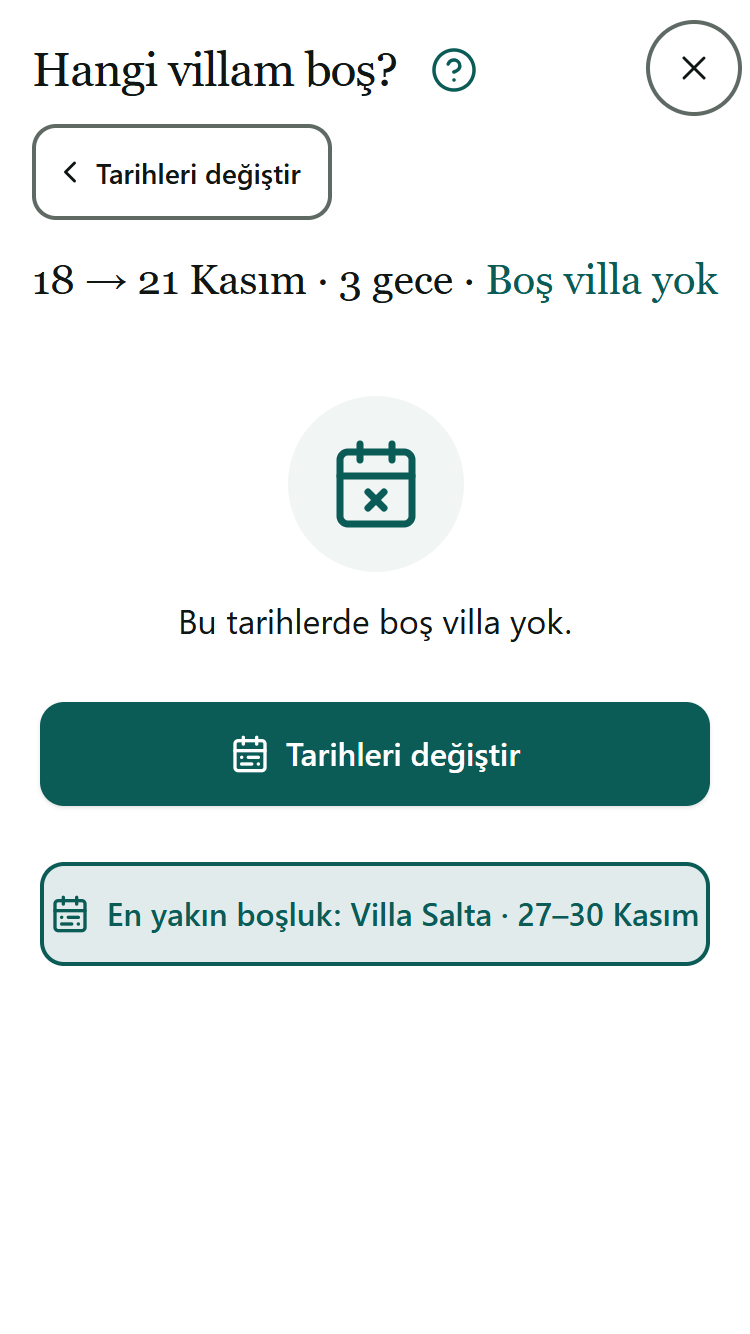
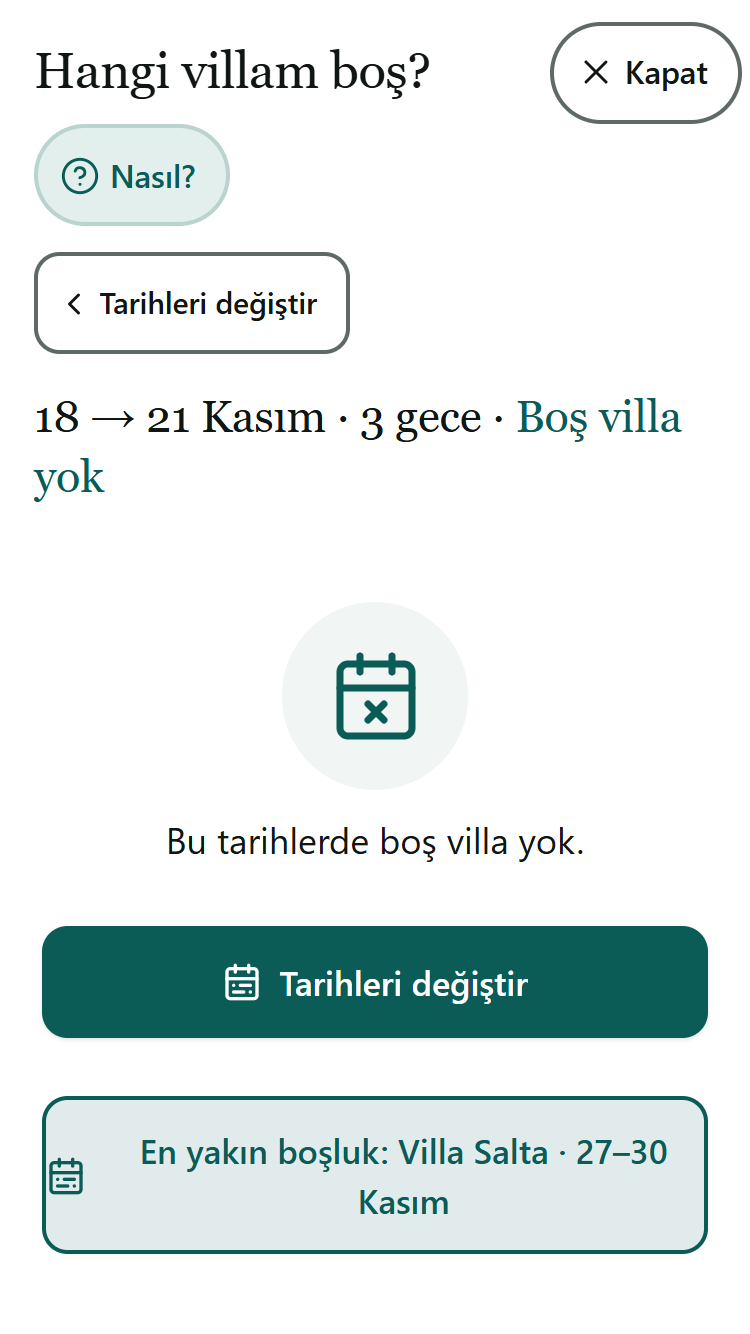
Görev 31.14: test ve testlerin bulduğu düzeltmeler
- iPhone SE / iPhone 15 × Normal / Büyük / Çok büyük × hareketi azalt: taşma ve üst üste binme yok, konsol hatası yok
- Hareketi azalt açıkken 12 durumda ve 7 akışta kayan öğe yok, akışlar çalışıyor
- Mevcut testler: Görev 19, 22–25, 27 (86/86), 28 (60/60 ×2), 29, 30, webhook geçti; Görev 21'de bir adım bilinen sapma
- Düzeltmeler: rehber katmanı eski ölçüsünde (--rh-olcek), baloncuk üstte yer yoksa alta; rehber sürerken "Nasıl?" gizli;
  ücret kartında ₺ tutardan ayrılmıyor; iskelet gerçek boşlukla birebir
- docs/qa/gorev31/README.md, PROJE_DURUMU.md ve STIL.md güncellendi

diff --git a/www/index.html b/www/index.html
@@ -100,6 +100,7 @@
     --satir-govde:1.45;
     --satir-baslik:1.2;
     --harf-serif:-.01em;         /* serif başlıklarda harf aralığı */
+    --rh-olcek:.941176;          /* 31.10: rehber katmanı eski (16 px tabanlı) ölçülerinde kalır: baloncuk en fazla 2 satır */
     --serif: ui-serif, Georgia, "Times New Roman", serif;
     --sans: -apple-system, BlinkMacSystemFont, "Segoe UI", Roboto, Helvetica, Arial, sans-serif;
   }
@@ -1120,6 +1121,8 @@
   /* 22.2: rehberi olan panellerde başlığın yanında "?" (rehberi tek seferlik açar; rehber açıkken görünmez) */
   /* 31.10: panelde "? Nasıl?" hapı başlığın altında kendi satırında (başlık daralmaz, üst üste binme olmaz) */
   .head.rhSoruVar > .rhSoru{margin:.625rem 0 0}
+  /* rehber sürerken "Nasıl?" gereksiz (rehberi açan düğme): yer de kaplamaz, hedefler yukarıda kalır */
+  html.rhAcik .head.rhSoruVar > .rhSoru{display:none}
   /* 26.6: ekran başlığının yanındaki "?" (Misafirler, Fotoğraflar): başlığın hemen yanında, rozet sağda kalır */
   .baslikSatir.rhSoruVar > h1{flex:0 1 auto}
   .baslikSatir.rhSoruVar > .rhSoru{margin-right:auto}
@@ -2576,17 +2579,18 @@
       var ana=document.getElementById("ana"), l=document.querySelectorAll("#villalar > .kart");
       if(!ana || ana.classList.contains("hide") || !l.length) return;
       var a=ana.getBoundingClientRect().top;
-      try{ localStorage.setItem(ISK_ANA,JSON.stringify({ust:Math.round(l[0].getBoundingClientRect().top-a),
-        boy:Array.prototype.slice.call(l,0,4).map(function(k){ return Math.round(k.offsetHeight); })})); }catch(e){}
+      try{ localStorage.setItem(ISK_ANA,JSON.stringify({ust:+(l[0].getBoundingClientRect().top-a).toFixed(2),
+        boy:Array.prototype.slice.call(l,0,4).map(function(k){ return +k.getBoundingClientRect().height.toFixed(2); })})); }catch(e){}
     });
   }
   function anaYerlesimUygula(){
     var y=null; try{ y=JSON.parse(localStorage.getItem(ISK_ANA)||"null"); }catch(e){}
     var ana=document.getElementById("ana"), l=document.querySelectorAll("#villalar .iskKart");
     if(!y || !l.length) return;
-    l.forEach(function(k,i){ if(y.boy && y.boy[i]) k.style.minHeight=y.boy[i]+"px"; });
-    var fark=y.ust-Math.round(l[0].getBoundingClientRect().top-ana.getBoundingClientRect().top);
-    if(fark>24){ var b=document.createElement("div"); b.className="isk blok iskUst"; b.style.cssText="height:"+(fark-12)+"px;margin:0;border-radius:var(--kose)";
+    l.forEach(function(k,i){ if(y.boy && y.boy[i]) k.style.height=y.boy[i]+"px"; });
+    var fark=y.ust-(l[0].getBoundingClientRect().top-ana.getBoundingClientRect().top);
+    var ara=parseFloat(getComputedStyle(l[0].parentNode).rowGap)||0;
+    if(fark>24){ var b=document.createElement("div"); b.className="isk blok iskUst"; b.style.cssText="height:"+(fark-ara)+"px;margin:0;border-radius:var(--kose)";
       l[0].parentNode.insertBefore(b,l[0]); }
   }
   function villaIskelet(n){
@@ -6015,7 +6019,7 @@
       if(!N){ el.innerHTML='<div class="sm muted">'+esc(cev("Tarihleri seçince normal ücret burada görünür."))+"</div>"; return; }
       var sat=function(ad,deger,arti){ return '<div class="ucSatir"><span class="ucAd">'+ad+'</span><span class="ucDeger">'+(arti?"+":"")+para(deger)+"</span></div>"; };
       var gAd=N.tek ? cev(N.gc+" gece")+" × "+para(N.tek) : cev(N.gc+" gece");
-      var h='<div class="eyebrow lab" style="margin:0 0 .25rem">'+esc(cev("Normal ücret"))+"</div>"+sat(esc(gAd),N.geceler,false);
+      var h='<div class="eyebrow lab" style="margin:0 0 .25rem">'+esc(cev("Normal ücret"))+"</div>"+sat(esc(gAd).replace(/ ₺/g,"&nbsp;₺"),N.geceler,false);
       if(N.eksik) h+='<div class="sm warn" style="margin:-.25rem 0 .5rem">'+esc(cev(N.eksik+" gecenin fiyatı girilmemiş"))+"</div>";
       if(N.ek) h+=sat(esc(cev("Kısa konaklama ücreti")),N.ek,true);
       h+='<div class="ucCizgi"></div><div class="ucSatir ucToplam"><span class="ucAd">'+esc(cev("Konaklama ücreti"))+'</span><span class="ucDeger">'+para(N.konaklama)+"</span></div>";
@@ -6665,7 +6669,7 @@
     var kartCiz=function(){
       var el=document.getElementById("f-ucret"); if(!el) return;
       var gAd = (tekFiyat && !h.eksik) ? cev(g+" gece")+" × "+para(tekFiyat) : cev(g+" gece");
-      var html=satir("geceler",esc(gAd),U.geceler,false);
+      var html=satir("geceler",esc(gAd).replace(/ ₺/g,"&nbsp;₺"),U.geceler,false);   // 31.10: "₺" tek başına alt satıra düşmesin
       if(h.eksik && !U.geceler) html+='<div class="sm warn" style="margin:-.25rem 0 .5rem">'+esc(cev(h.eksik+" gecenin fiyatı girilmemiş, tutarı yazın"))+"</div>";
       if(U.ek || acik.ek) html+=satir("ek",esc(cev("Kısa konaklama ücreti")),U.ek,true);
       html+='<div class="ucCizgi"></div><div class="ucSatir ucToplam"><span class="ucAd">'+esc(cev("Konaklama ücreti"))+'</span><span class="ucDeger">'+para(konaklama())+"</span></div>";

diff --git a/www/rehber.js b/www/rehber.js
@@ -256,7 +256,10 @@
       ".rh.kapaniyor,.rhSon.kapaniyor{transition:none}}";
   function cssKur() {
     if (document.getElementById("rhCss")) return;
-    var s = document.createElement("style"); s.id = "rhCss"; s.textContent = CSS;
+    // 31.10: uygulamanın gövde yazısı 17 px oldu; rehber katmanı eski ölçülerinde kalsın diye bütün rem değerleri
+    // --rh-olcek ile çarpılır (index.html: 16/17). Yazı boyutu ayarıyla (Büyük, Çok büyük) yine birlikte büyür.
+    var s = document.createElement("style"); s.id = "rhCss";
+    s.textContent = CSS.replace(/(-?\d*\.?\d+)rem/g, function (m, n) { return "calc(" + n + "rem * var(--rh-olcek, 1))"; });
     (document.head || document.documentElement).appendChild(s);
   }
   // *kelime* → vurgulu (kalın değil)
@@ -746,9 +749,12 @@
     yaz(D.delik, "transform", "translate(" + Math.round(d.l - ox) + "px," + Math.round(d.t - oy) + "px)");
     yaz(D.delik, "width", Math.max(0, Math.round(d.w)) + "px"); yaz(D.delik, "height", Math.max(0, Math.round(d.h)) + "px");
     yaz(D.balon, "left", Math.round(b.l - ox) + "px"); yaz(D.balon, "width", Math.round(b.w) + "px");
-    var bh = D.balon.offsetHeight;
-    // baloncuğun alt kenarı hedefin üst kenarının 8 px üstünde
-    yaz(D.balon, "top", Math.round(d.t + pay - 8 - bh - oy) + "px");
+    var bh = D.balon.offsetHeight, g = alan();
+    // baloncuğun alt kenarı hedefin üst kenarının 8 px üstünde. 31.10: üstte yer yoksa (yazı 17 px olunca hedefler büyüdü)
+    // hedefin 8 px altına; altta da yer yoksa ekranın üst kenarına yapışır (ekrandan taşmaz)
+    var bt = d.t + pay - 8 - bh;
+    if (bt < g.ust + 4) bt = (d.t + d.h - pay + 8 + bh <= g.alt - 4) ? d.t + d.h - pay + 8 : g.ust + 4;
+    yaz(D.balon, "top", Math.round(bt - oy) + "px");
     D.delikEkran = d; D.balonEkran = b;
   }
   function solukCiz(d) {

diff --git a/www/sw.js b/www/sw.js
@@ -3,7 +3,7 @@
 
 // Sürüm: her yayında artırılır. Dosya değişince telefonlar yeni servisi kurar;
 // açılışta eski sürümlerden kalan önbellekler silinir, böylece eski ekran kalmaz.
-var SURUM = "vt-2026-11-18-gorev31m";
+var SURUM = "vt-2026-11-18-gorev31n";
 
 self.addEventListener("install", function (e) {
   self.skipWaiting();

diff --git a/docs/qa/gorev31/README.md b/docs/qa/gorev31/README.md
@@ -3,6 +3,104 @@
 _Claude Code, 18 Kasım 2026._
 
 Ortam: Playwright, sahte Supabase, sabit saat 16 Kasım 2026, iPhone boyutları. Veritabanına dokunulmadı.
+Değerlerin hepsi `www/index.html` `:root` değişkenlerinde ve `docs/STIL.md`'de.
+
+## Alt adımlar ve ölçülenler
+
+| Adım | Ölçülen (sahte ortamda) | Sonuç |
+|---|---|---|
+| 31.1 hareket değişkenleri | Panel açılışı `perdeAc` 340 ms (`--egri-cekmece`), kapanışı 220 ms; kararma 240 / 200 ms; bildirim geçişle 300 / 200 ms, yenisi gelince eskisi yarıda kesilir | ✓ |
+| | Eski hata bulundu: panel kapanırken arka plan kararması hiç açılmıyordu (CSS önceliği) | düzeltildi |
+| 31.2 kademeli giriş | Rezervasyon detayı: öğeler 60 / 100 / 140 / 180 / 220 / 260 ms gecikmeyle, 240 ms, 8 pt; 6. öğeden sonrası 6.'yla birlikte | ✓ |
+| | Giriş sürerken düğme basılabilir (`pointer-events: auto`, dokunuş düğmeye gidiyor) | ✓ |
+| | Hareketi azalt: kayma yok, 150 ms saydamlık | ✓ |
+| | Seçim paneli: açılışta ilk öğe 60 ms; giriş → aralık geçişinde 0 / 40 / 80 / 120 / 160 ms | ✓ |
+| 31.3 basma hissi | Hap: basınca 40 ms'de .976, 160 ms'de .97; bırakınca 60 ms'de .988, 260 ms'de 1 | ✓ |
+| | Takvim günü: hiç küçülmüyor | ✓ |
+| | Menü (bakıcı ekle → villa seç): seçilen satır ana renkte, 200 ms sonra menü kapalı | ✓ |
+| 31.4 titreşim dili | Sekme değişimi, 2. gün, anahtar açma → `secim`; eksik isim → `uyari`; kayıt → `basari`; anahtar kapatırken titreşim yok (kapandı) | ✓ |
+| 31.5 sayılar | Gövdede `tabular-nums`; takvim hücresi "4.100 ₺"; Gelir&gider Yıl → Ay: −32.500 → −13.552 → −4.990 → … → −1.500 ₺ (450 ms) | ✓ |
+| | Hareketi azalt: doğrudan −1.500 ₺ | ✓ |
+| 31.6 başarı anları | Bildirimde tik `tikCiz` 350 ms (100 ms gecikmeyle), `basari` titreşimi ~460–480 ms'de | ✓ |
+| | İlk rezervasyon kartı bir kez; ikinci rezervasyonda yok; çok rezervasyonlu (eski) hesapta yok | ✓ |
+| 31.7 yükleniyor | Hızlı veri (190 ms): iskelet hiç görünmedi. Yavaş veri (1,5 sn): iskelet 350 ms'de göründü | ✓ |
+| | İskelet kartlarının yeri ve boyu dolu hâliyle aynı (17 px tabanla: 706 / 836 px, 118 / 94 px) | ✓ |
+| | Kaydetme hatası: "Kaydediliyor…" + ikinci basış engelli → sade kırmızı açıklama + "Tekrar dene" | ✓ |
+| 31.8 boş hâller | Villa yok, Ajanda, müsaitlik sonuç yok, villanın rezervasyonu yok, Gelir&gider: ikon + tek cümle + en fazla tek ana düğme | ✓ |
+| | SE ve 390'da taşma yok | ✓ |
+| 31.9 hata hâlleri | Boş isim: kırmızı çerçeve, alan görünürde, ±4 pt × 2 titreme 300 ms, mesaj alanın altında | ✓ |
+| | Hareketi azalt: titreme yok | ✓ |
+| | Teklifler yüklenemedi ("JWT expired PGRST301"): sade cümle + "Tekrar dene"; tekrar → liste geldi | ✓ |
+| 31.10 okunurluk | Gövde 17 px, en küçük 14 px | ✓ |
+| | SE / 360 / 390 / 430 × Normal / Çok büyük × gece / gündüz: 7 ekran, taşma yok | ✓ |
+| | Ekran görüntüsünde bulundu: SE + Çok büyükte "?" misafir adının üstüne biniyordu | "? Nasıl?" başlığın altına alındı |
+| 31.12 kesilebilirlik | 40 px / 60 ms hızlı çekiş → kapanır; 40 px / 800 ms → kapanmaz; 140 px → kapanır | ✓ |
+| | Yukarı 20 px → 10,9 px (lastik), bırakınca yerine döner | ✓ |
+| | Kapanırken `pointer-events: auto`; dokununca panel geri açıldı, sonra normal kapandı | ✓ |
+| 31.13 yavaş çekim | `?yavas=3`: `--hiz-ac` 1020 ms, panel girişi 180 / 300 / 420 ms gecikme, 720 ms (tam 3 kat) | ✓ |
+| | Yavaş çekim kapalıyken her şey değişmeden | ✓ |
+
+Ekran görüntüleri: `iskelet/`, `ilk/`, `bos/`, `hata/`, `kaydet-hata/`, `okunurluk/`, `test/`.
+
+## 31.14 Test
+
+### Görev 31 denetimleri (son kodla)
+
+| Denetim | Sonuç |
+|---|---|
+| iPhone SE ve iPhone 15 × Normal / Büyük / Çok büyük × hareketi azalt kapalı / açık (12 durum, 7 ekran kaydırılarak) | taşma, kesik yazı, üst üste binme yok; konsol / sayfa hatası yok |
+| Hareketi azalt açıkken 12 durumda kayan (transform ile yer değiştiren) animasyon | 0 (aynı ölçüm normal modda 30–40 kayan animasyon buluyor: ölçüm çalışıyor) |
+| Hareketi azalt açıkken 7 video akışı | 7/7 çalıştı; kayan öğe 0; sayfa hatası yok |
+| Görev 31 testleri (`qa31a`–`qa31k`) | hepsi geçti (yukarıdaki tablo) |
+
+### Mevcut testler (son kodla)
+
+| Test | Sonuç |
+|---|---|
+| Görev 30 (Pro ekranı, mağaza, ne zaman, üyelik satırı, yönetim, kalite) | sorun kaydı yok; farklar beklenen: başlıkta "Kapat" yazısı, bildirimde "✓" harfi yerine çizilen tik, 17 px yazı |
+| Görev 30 webhook | 21 durum ✓ |
+| Görev 29 (hata yakalama, yönetim, iki adımlı doğrulama, ölçüm) | sorun kaydı yok; farklar beklenen ("Kapat" yazısı) |
+| Görev 28 | 60/60 · Çok büyük 60/60 · villa takvimi hatasız |
+| Görev 27 | 86/86 |
+| Görev 25 | 16/16 |
+| Görev 24 | klavye 84/84 · ücret kartı 24/24 |
+| Görev 23 | 6/6 |
+| Görev 22 | 21/21 |
+| Görev 21 | klavye 4/4 · baloncuk 12/13 ve 10/11 (aşağıda) |
+| Görev 19 | konsol / sayfa hatası yok, kayıt var |
+
+Testlerin bulduğu ve düzeltilenler:
+- **Rehber baloncuğu 3 satıra çıkıyordu** (kural en fazla 2), iki adımda ekranın 4 px üstünden taşıyordu: gövde 17 px olunca rehber katmanı
+  da büyümüştü. Rehber katmanı eski ölçülerinde tutuldu (`--rh-olcek`); üstte yer yoksa baloncuk hedefin altına, o da yoksa ekranın
+  üst kenarına yerleşir (ekrandan taşmaz).
+- **Rehber sürerken "? Nasıl?" hapı** gereksiz yer kaplıyordu: rehber açıkken gizli.
+- **Ücret kartında "₺" tek başına alt satıra düşüyordu** ("8.000 / ₺"): tutar ile ₺ arası bölünmez boşluk.
+- **İskelet 1–2 px kayıyordu** (kartlar arası boşluk 17 px tabanla 12,75 px): gerçek ölçü kullanılıyor.
+- Eski test beklentileri güncellendi (tasarım değişikliği): Görev 27.3 opsiyon başlığı ("Kapat" yazısı), Görev 26 misafirler
+  boş hâli (çizim yerine ikon).
+
+**Bilinen sapma (Görev 21, iPhone 14 Safari, 664 px yükseklik):** rezervasyon rehberinin "Toplam ücret" adımında baloncuk karta bitişik
+(8 pt yerine 0 pt boşluk). Baloncuk ve kart tamamen ekranda, üst üste binmiyor. Sebep: 17 px yazıyla ücret kartı 332 px boyunda;
+kısa ekranda üstünde 8 pt'lik pay kalmıyor. Diğer bütün adımlar ve boyutlar 8 pt.
+
+**Bilerek bırakılanlar:** ay / dönem okları (‹ ›) ve kişi sayısındaki − / + yazısız (geri oku gibi bağlamıyla anlaşılır; erişilebilirlik
+etiketleri var). Grup içindeki satırlar basınca küçülmez (satırlar birbirine yapışık), yalnız zemini değişir.
+
+**Denenemeyen:** gerçek iPhone'da titreşim (`secim` dahil) ve çekmece hissi; Windows'ta Xcode yok.
+
+## 31.13 Videolar (`video/`)
+
+iPhone 15 boyutu (393 × 852), gerçek dokunma olaylarıyla. Her akış iki kez: normal hızda ve `?yavas=3` ile (`-yavas3`).
+
+| Dosya | Akış |
+|---|---|
+| `01-acilis` | Uygulama açılışı → Villalarım |
+| `02-rezervasyon-kaydet` | Takvimde 2 gün → seçim paneli → ad yazılır → Rezervasyonu kaydet → tik çizilir → "İlk rezervasyonunuz kaydedildi" kartı |
+| `03-odeme-al` | Rezervasyon detayı → Ödemeyi al ve misafiri yerleştir → Kaydet → kalan ödeme sayarak 0'a iner → Evet, yerleştirdim |
+| `04-musaitlik` | Takvim → Hangi villam boş? → tarihler → sonuçlar (kademeli) → aşağı kaydırma |
+| `05-gelir-gider` | Gelir & gider → Ay / Yıl, önceki / sonraki dönem (net tutar sayarak geçer) |
+| `06-bos-hesap` | Villa yok ekranı |
+| `07-ag-kapali-hata` | Hesabım → ağ kapalıyken "Bilgilerimi kaydet" → çevrimdışı şeridi, düğmenin altında hata + "Tekrar dene" → ağ gelince tekrar → kaydedildi |
 
 ## 31.11 Her ekranda tek bir öne çıkan iş
 

diff --git a/docs/STIL.md b/docs/STIL.md
@@ -73,7 +73,8 @@ Kullanıcı yaşlı bir villa sahibi. Her karar "daha sade, daha net" yönünde 
 - **Para biçimi:** her yerde `12.300 ₺` (binlik nokta, boşluk, ₺). Takvim hücresinde dar bölünmeyen boşlukla `4.100 ₺`, yüz binin
   üstünde `120b ₺`. Tek kaynak: `para()` (uygulama), `nf.format(n)+" ₺"` (misafir sayfası).
 - **Dar alanda büyük yazı:** yan yana öğeler sığmazsa alt satıra geçer (`flex-wrap`, `min-width:min-content`, kap sorgusu); üst üste binmez.
-- **Uzunluk:** bir satır en fazla ~40 karakter (telefonda). Rehber baloncuğu en fazla 2 satır.
+- **Uzunluk:** bir satır en fazla ~40 karakter (telefonda). Rehber baloncuğu en fazla 2 satır. Rehber katmanı 16 px tabanlı eski
+  ölçülerinde kalır (`--rh-olcek`, Görev 31.10); yazı boyutu ayarıyla yine büyür.
 
 ## 3. Düğmeler
 
